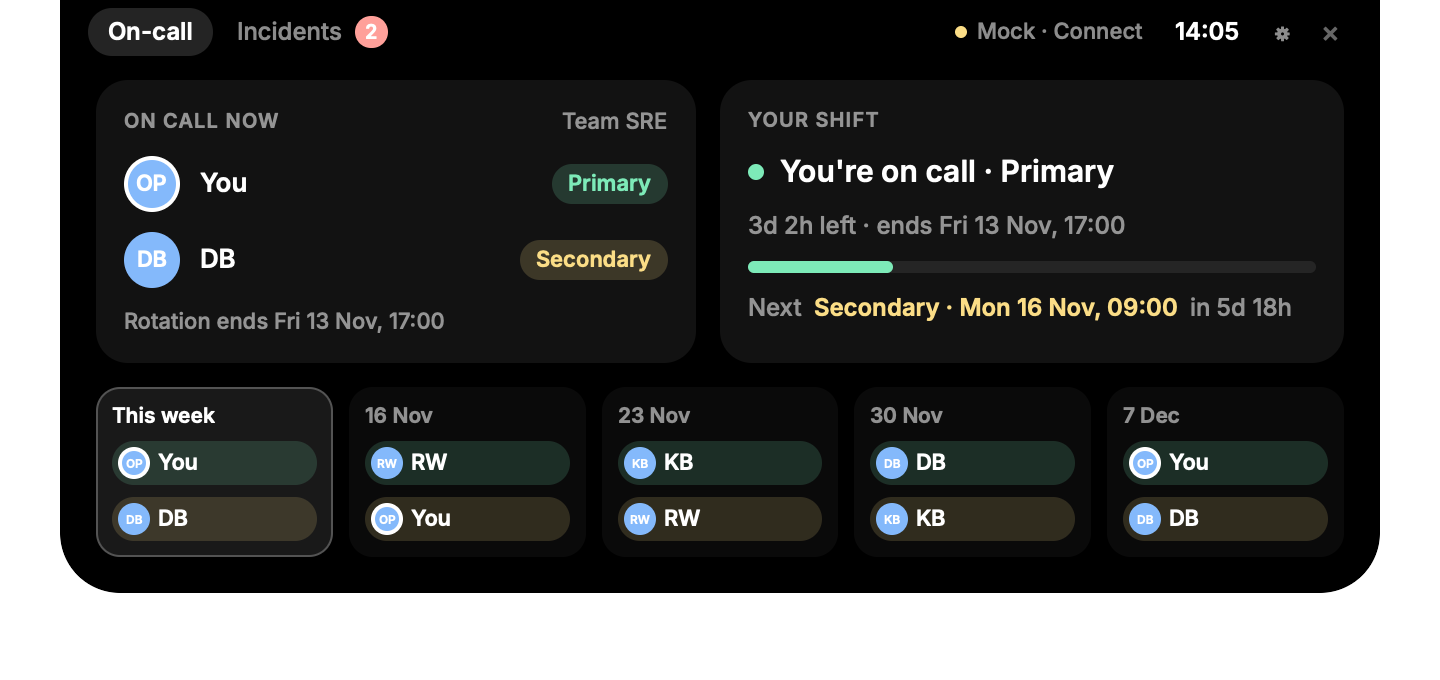
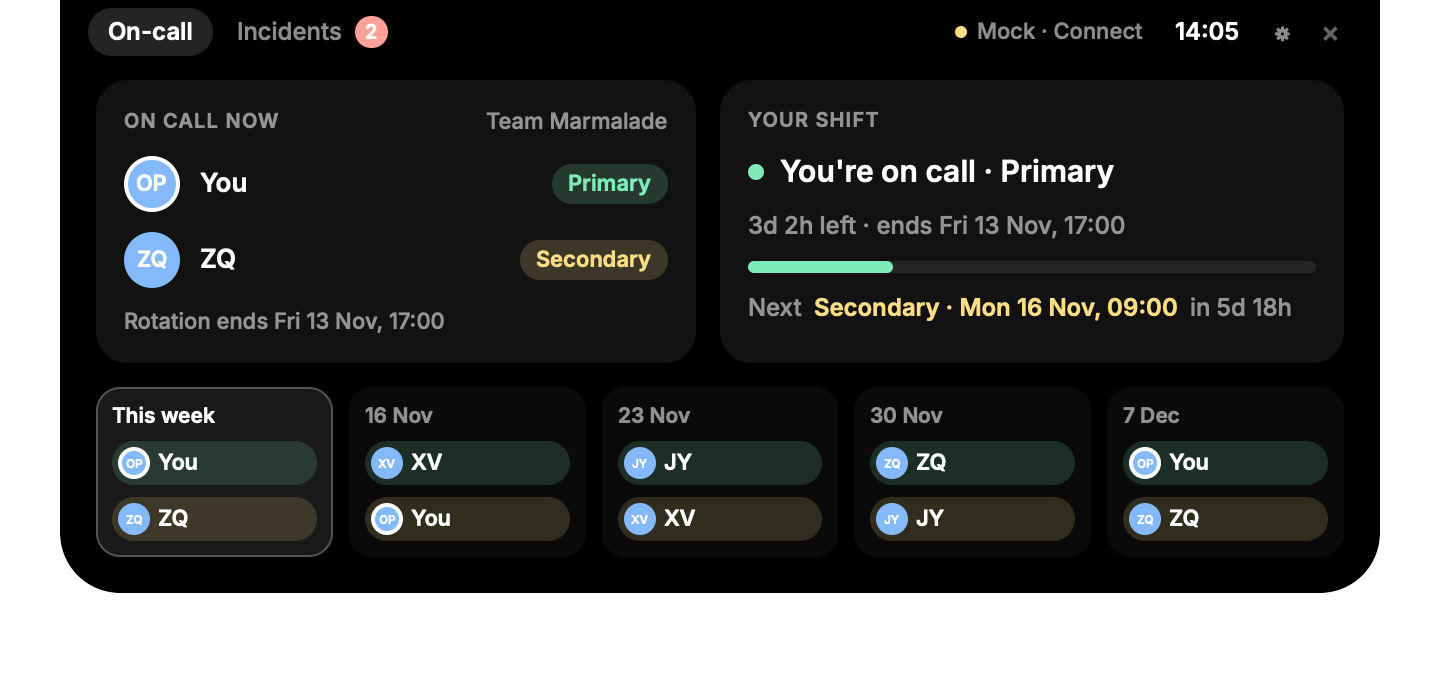
chore: replace the mock's initials and team name with made-up ones
The mock rotation, its incidents and the demo connection message now use
invented initials (ZQ, XV, JY) and "Team Marmalade". The tests and README
follow, and the snapshots are regenerated (settings.png also picks up the
current version).

diff --git a/src/oncall.rs b/src/oncall.rs
@@ -76,10 +76,10 @@ pub fn initials(name: &str) -> String {
     }
 }
 
-/// The rotation order seen in the calendar: DB → OP → RW → KB → DB …
-const ORDER: [&str; 4] = ["DB", "OP", "RW", "KB"];
+/// The rotation order seen in the calendar: ZQ → OP → XV → JY → ZQ …
+const ORDER: [&str; 4] = ["ZQ", "OP", "XV", "JY"];
 
-fn anchor() -> NaiveDate { NaiveDate::from_ymd_opt(2026, 11, 2).unwrap() } // DB's primary week
+fn anchor() -> NaiveDate { NaiveDate::from_ymd_opt(2026, 11, 2).unwrap() } // ZQ's primary week
 
 pub fn monday_of(d: NaiveDate) -> NaiveDate { d - Duration::days(d.weekday().num_days_from_monday() as i64) }
 
@@ -100,12 +100,12 @@ pub fn mock(me: &str, now: NaiveDateTime) -> Data {
     let shifts = (0..10).flat_map(|i| week_shifts(monday + Duration::weeks(i))).collect();
     let person = |s: &str| Some((s.to_string(), s.to_string()));
     Data {
-        team: "Team SRE".into(),
+        team: "Team Marmalade".into(),
         me: me.into(),
         shifts,
         incidents: vec![
             Incident { severity: "SEV2".into(), title: "Elevated 5xx on api-gateway (eu-west-1)".into(), status: "Investigating".into(), commander: person("OP"), started: now - Duration::minutes(14) },
-            Incident { severity: "SEV3".into(), title: "Kafka consumer lag on telemetry-ingest".into(), status: "Mitigated".into(), commander: person("DB"), started: now - Duration::minutes(96) },
+            Incident { severity: "SEV3".into(), title: "Kafka consumer lag on telemetry-ingest".into(), status: "Mitigated".into(), commander: person("ZQ"), started: now - Duration::minutes(96) },
         ],
         origin: Origin::Mock,
     }
@@ -218,7 +218,7 @@ mod tests {
     fn the_mock_matches_the_firehydrant_calendar() {
         let got: Vec<_> = snap(at(10, 14, 5)).weeks.iter()
             .map(|(d, p, s)| (d.day(), p.clone().unwrap().0, s.clone().unwrap().0)).collect();
-        let want = [(9, "OP", "DB"), (16, "RW", "OP"), (23, "KB", "RW"), (30, "DB", "KB"), (7, "OP", "DB")];
+        let want = [(9, "OP", "ZQ"), (16, "XV", "OP"), (23, "JY", "XV"), (30, "ZQ", "JY"), (7, "OP", "ZQ")];
         assert_eq!(got, want.map(|(d, p, s)| (d, p.to_string(), s.to_string())));
     }
 
@@ -240,7 +240,7 @@ mod tests {
         let day = |d: u32, who: &str, role| Shift { role, user_id: who.into(), who: who.into(), start: at(d, 9, 0), end: at(d, 16, 0) };
         let mut shifts: Vec<Shift> = (9..=13).map(|d| day(d, "OP", Role::Primary)).collect();
         shifts.extend((16..=20).map(|d| day(d, "OP", Role::Secondary)));
-        shifts.extend((16..=20).map(|d| day(d, "RW", Role::Primary)));
+        shifts.extend((16..=20).map(|d| day(d, "XV", Role::Primary)));
         let data = Data { team: "T".into(), me: "OP".into(), shifts, incidents: vec![], origin: Origin::Mock };
 
         let s = Snapshot::build(&data, at(10, 11, 0));

diff --git a/src/firehydrant.rs b/src/firehydrant.rs
@@ -43,7 +43,7 @@ pub const INTEGRATION: Integration = Integration {
 fn test() -> Result<String, String> {
     if crate::demo::on() {
         std::thread::sleep(Duration::from_millis(1200));
-        return Ok("Connected to Team SRE: 50 shifts in the next five weeks, 2 active incidents, you are OP".into());
+        return Ok("Connected to Team Marmalade: 50 shifts in the next five weeks, 2 active incidents, you are OP".into());
     }
     let client = Client::from_settings().ok_or("No API key saved")?;
     let data = client.fetch(Local::now().naive_local())?;

diff --git a/README.md b/README.md
@@ -85,8 +85,8 @@ cargo run -- --scene collapsed --script scripts/hover.json --snap mid.png --at 0
 ```
 
 Scenes and demo mode use the mock with the clock pinned to Tue 10 Nov 2026, 14:05, so images are
-reproducible. The mock is modelled on a real team's calendar: weekly rotations DB → OP → RW → KB, Monday
-09:00 to Friday 17:00, where the secondary is last week's primary. `NOTCH_ME=DB` changes who "you" are in
+reproducible. The mock is modelled on a real team's calendar: weekly rotations ZQ → OP → XV → JY, Monday
+09:00 to Friday 17:00, where the secondary is last week's primary. `NOTCH_ME=ZQ` changes who "you" are in
 it (default `OP`).
 
 **Recording the demo video.** `scripts/record-demo.sh` writes `demo/notch-assistant.mp4`. It runs the app
